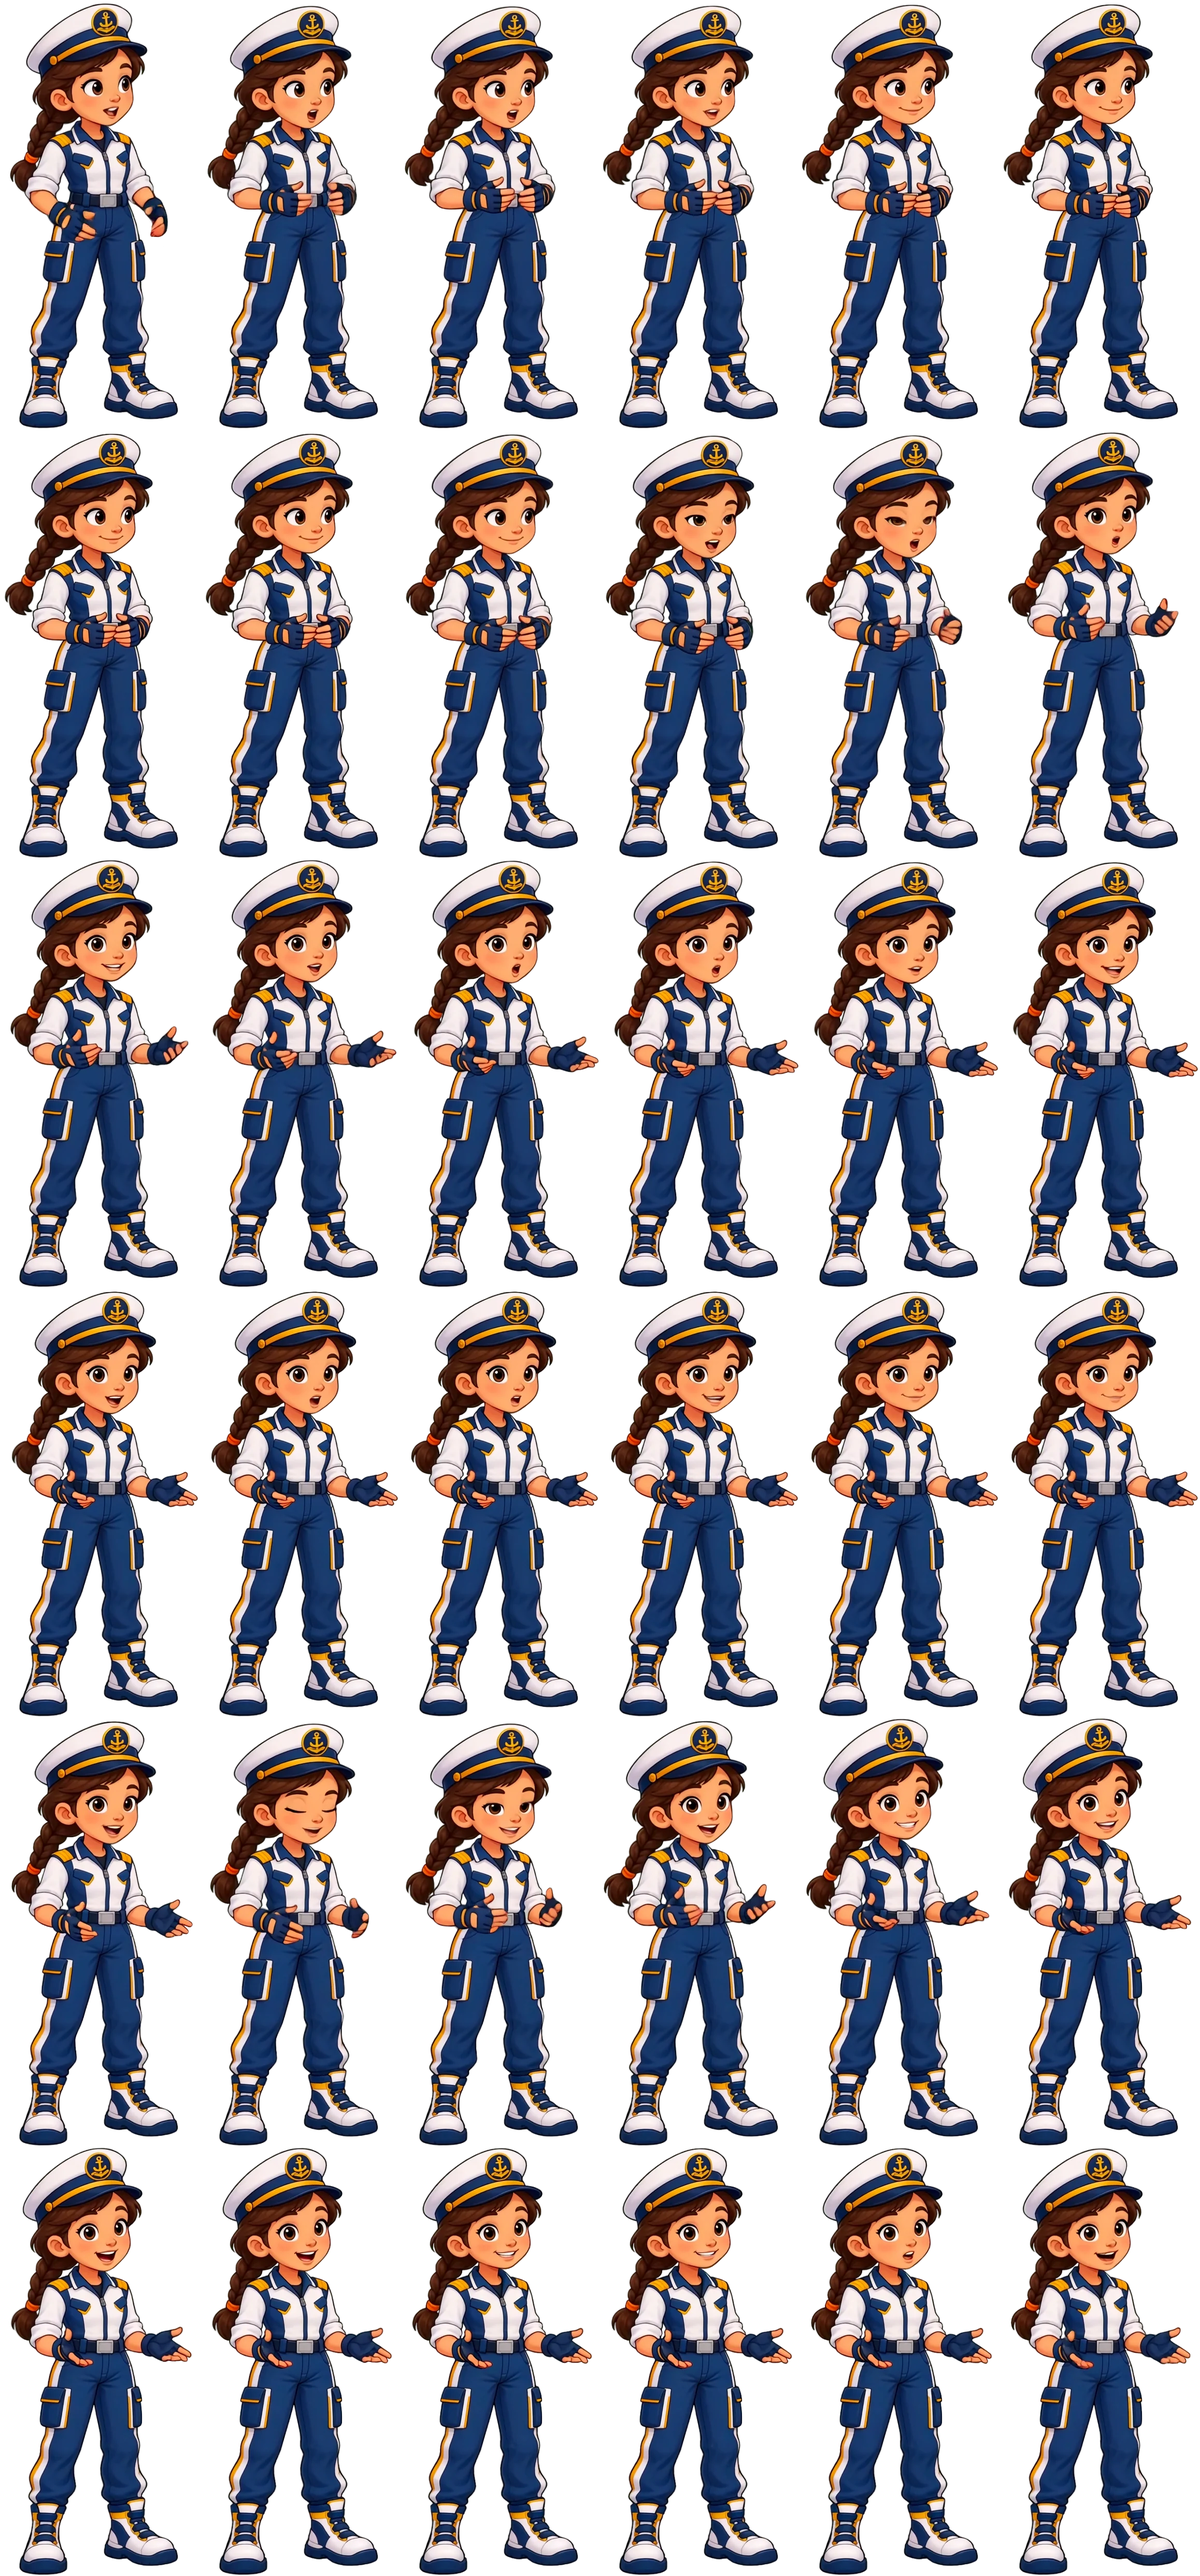
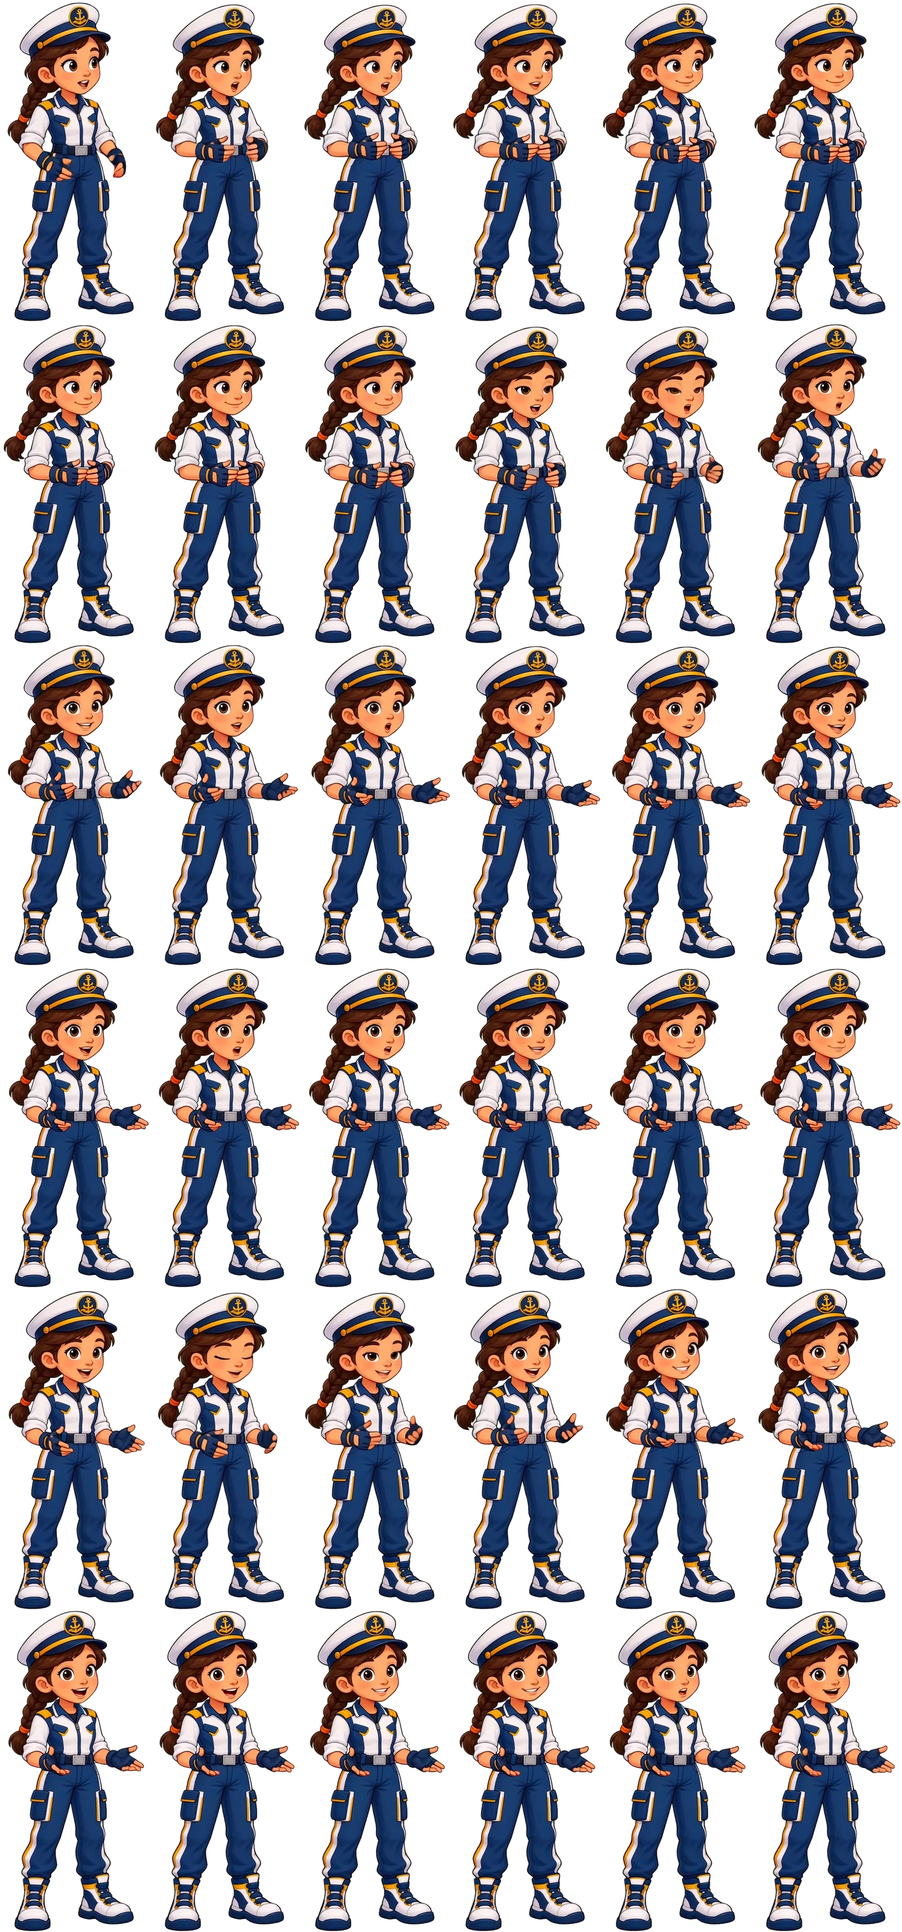
Open on phones: smaller talking sheets, no boot pre-decode on low-memory devices, half-res water
The talking sheets were taller than the 4096 px texture limit on phone GPUs and
the boot pre-decode used ~300 MB, so mobile Safari/Chrome killed the tab.

diff --git a/js/core.js b/js/core.js
@@ -242,8 +242,8 @@
   /* the Ludo talking sheets, in the story and at the cockpit stations (6×6 whole full-body frames, played exactly as drawn).
      A character plays the sheet while their line is spoken, then runs on to the next closed-mouth frame and holds it. */
   const SHEET = {
-    meera: { src: 'assets/img/meera_talk_sheet.webp', w: 385, h: 862, ms: 79, rest: [0, 1, 2, 3, 4, 5, 6, 9, 14, 24, 30, 31] },
-    riya: { src: 'assets/img/riya_talk_sheet.webp', w: 386, h: 828, ms: 90, rest: [4, 5, 6, 7, 8, 22, 23] },
+    meera: { src: 'assets/img/meera_talk_sheet.webp', w: 289, h: 646, ms: 79, rest: [0, 1, 2, 3, 4, 5, 6, 9, 14, 24, 30, 31] },
+    riya: { src: 'assets/img/riya_talk_sheet.webp', w: 290, h: 621, ms: 90, rest: [4, 5, 6, 7, 8, 22, 23] },
   };
   /* Each sheet is ~48 MB once decoded. Drawing a not-yet-decoded image on a canvas makes the browser decode it right there on the
      main thread (a 1–3 s freeze, e.g. just after a QA jump), so the sheets are decoded in the background (createImageBitmap)
@@ -251,7 +251,7 @@
   for (const k in SHEET) {
     const s = SHEET[k]; s.img = new Image(); s.img.src = s.src; s.wait = [];
     s.ready = s.img.decode().then(() => window.createImageBitmap ? createImageBitmap(s.img) : s.img).catch(() => s.img)
-      .then(bm => { s.bm = bm; s.wait.splice(0).forEach(f => f()); });
+      .then(bm => { s.bm = bm; if (bm !== s.img) s.img = null; s.wait.splice(0).forEach(f => f()); });   // keep one decoded copy, not two
   }
   // ready: the sheets are decoded, the fonts are in and the page has finished loading (capped at 5 s) — the game starts after this
   const READY = Promise.race([
@@ -259,14 +259,15 @@
       .then(() => new Promise(r => requestAnimationFrame(() => requestAnimationFrame(r)))),
     new Promise(r => setTimeout(r, 5000)),
   ]);
+  const LOW = (navigator.deviceMemory && navigator.deviceMemory <= 4) || matchMedia('(pointer: coarse)').matches || Math.min(screen.width, screen.height) < 700;
   // the other game art is decoded at boot too (img.decode() runs off the main thread), so nothing decodes mid-action
   ['sub', 'sub_hit', 'torpedo', 'reticle', 'cannon', 'cockpit', 'blast_sheet', 'escape_pod', 'jelly', 'pop', 'pip_on', 'pip_off',
     'star_gold', 'star_silver', 'badge', 'marker', 'sig', 'pod', 'card', 'hint_arrow', 'sweep', 'surface_light', 'caustics', 'rays', 'far', 'seabed', 'water']
-    .forEach(n => { const i = new Image(); i.src = 'assets/img/' + n + '.webp'; i.decode().catch(() => {}); });
+    .forEach(n => { if (LOW) return; const i = new Image(); i.src = 'assets/img/' + n + '.webp'; i.decode().catch(() => {}); });
   // the story art too (characters, sprites, the water) — decoded in the background so no scene hitches when they first appear
   ['../door_left', '../door_right', 'bg_under', 'ship', 'sub_bay', 'missile_red', 'missile_blue', 'launcher_base', 'launcher_barrel', 'fire_off', 'fire_lit',
     'meera_shocked', 'meera_determined', 'meera_pointing', 'meera_proud', 'riya_alert', 'riya_focused', 'riya_cheering']
-    .forEach(n => { const i = new Image(); i.src = 'assets/img/story/' + n + '.webp'; i.decode().catch(() => {}); });
+    .forEach(n => { if (LOW) return; const i = new Image(); i.src = 'assets/img/story/' + n + '.webp'; i.decode().catch(() => {}); });
   function talker(who) {
     const s = SHEET[who], c = document.createElement('canvas'), g = c.getContext('2d');
     c.width = s.w; c.height = s.h;
@@ -327,7 +328,7 @@
   function captionOff(delay = 0) { gsap.to('#comms', { opacity: 0, duration: .3, delay }); }
   function skip() { if (skipFn) { const f = skipFn; skipFn = null; hush(); f(); } }
 
-  window.SD = { $, Q, SPEED, MUTE, wait, fmt, readTime, audioOn, SFX, say, hush, skip, captionOff, talker, ready: READY, CALM, snd: { tone, noise, sample, get AC() { return AC; }, get music() { return musicBus; }, get master() { return master; } }, music: n => bed('music', n && 'music_' + n), ambience: n => bed('amb', n), get lastLine() { return lastLine; },
+  window.SD = { $, Q, SPEED, MUTE, wait, fmt, readTime, audioOn, SFX, say, hush, skip, captionOff, talker, ready: READY, CALM, LOW, snd: { tone, noise, sample, get AC() { return AC; }, get music() { return musicBus; }, get master() { return master; } }, music: n => bed('music', n && 'music_' + n), ambience: n => bed('amb', n), get lastLine() { return lastLine; },
     // editor hooks: paused = freeze ticker work + spawners · rate = extra speed factor for ticker-driven motion · where = current section
     paused: false, rate: 1, where: { at: 'title', round: 1 }, get audioCtx() { return AC; }, holdVoice, fit, inset, layoutCSS, applyLayout };
 })();

diff --git a/js/levels.js b/js/levels.js
@@ -77,7 +77,7 @@
     K.open = async () => {
       bg.style.backgroundImage = `url(${IMG('bg_under')})`;
       let cv = $('#waterCv');
-      if (!cv) { cv = document.createElement('canvas'); cv.id = 'waterCv'; cv.width = 1920; cv.height = 1080; st.insertBefore(cv, sfx); }
+      if (!cv) { cv = document.createElement('canvas'); cv.id = 'waterCv'; cv.width = SD.LOW ? 960 : 1920; cv.height = SD.LOW ? 540 : 1080; st.insertBefore(cv, sfx); }   // half resolution on phones
       if (WATER === null) { WATER = Water(cv) || false; if (WATER && !(await WATER.load(IMG('bg_under')))) WATER = false; }
       cv.style.display = WATER ? 'block' : 'none'; if (WATER) { Object.assign(WATER.state, { glow: 0, r: 1, g: 1, b: 1 }); WATER.start(); }
       K.cam = gsap.fromTo([cv, bg], { scale: 1.08 }, { scale: 1.02, duration: 30, ease: 'none' });
